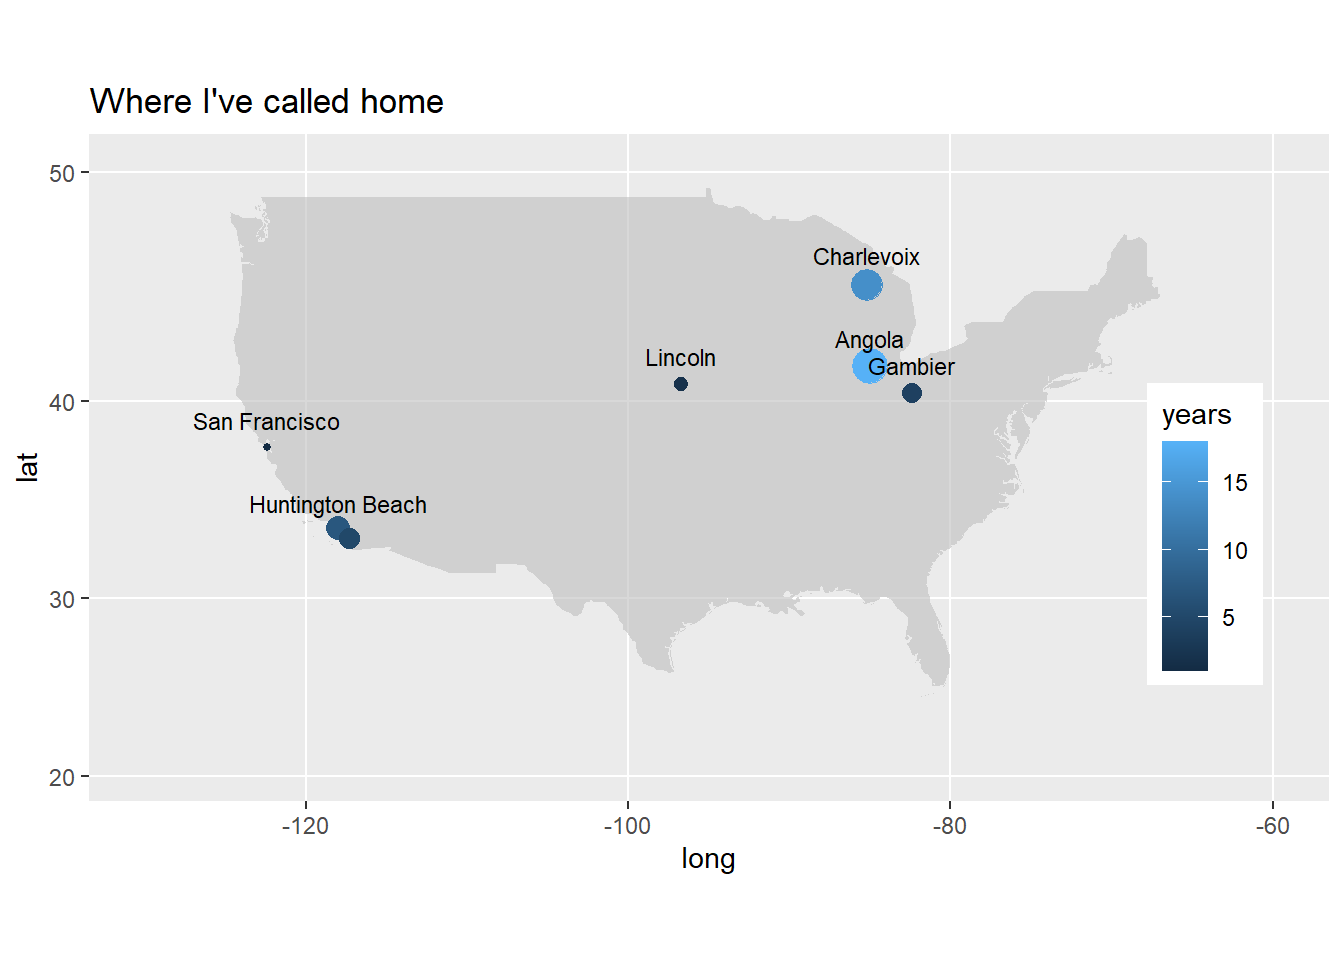
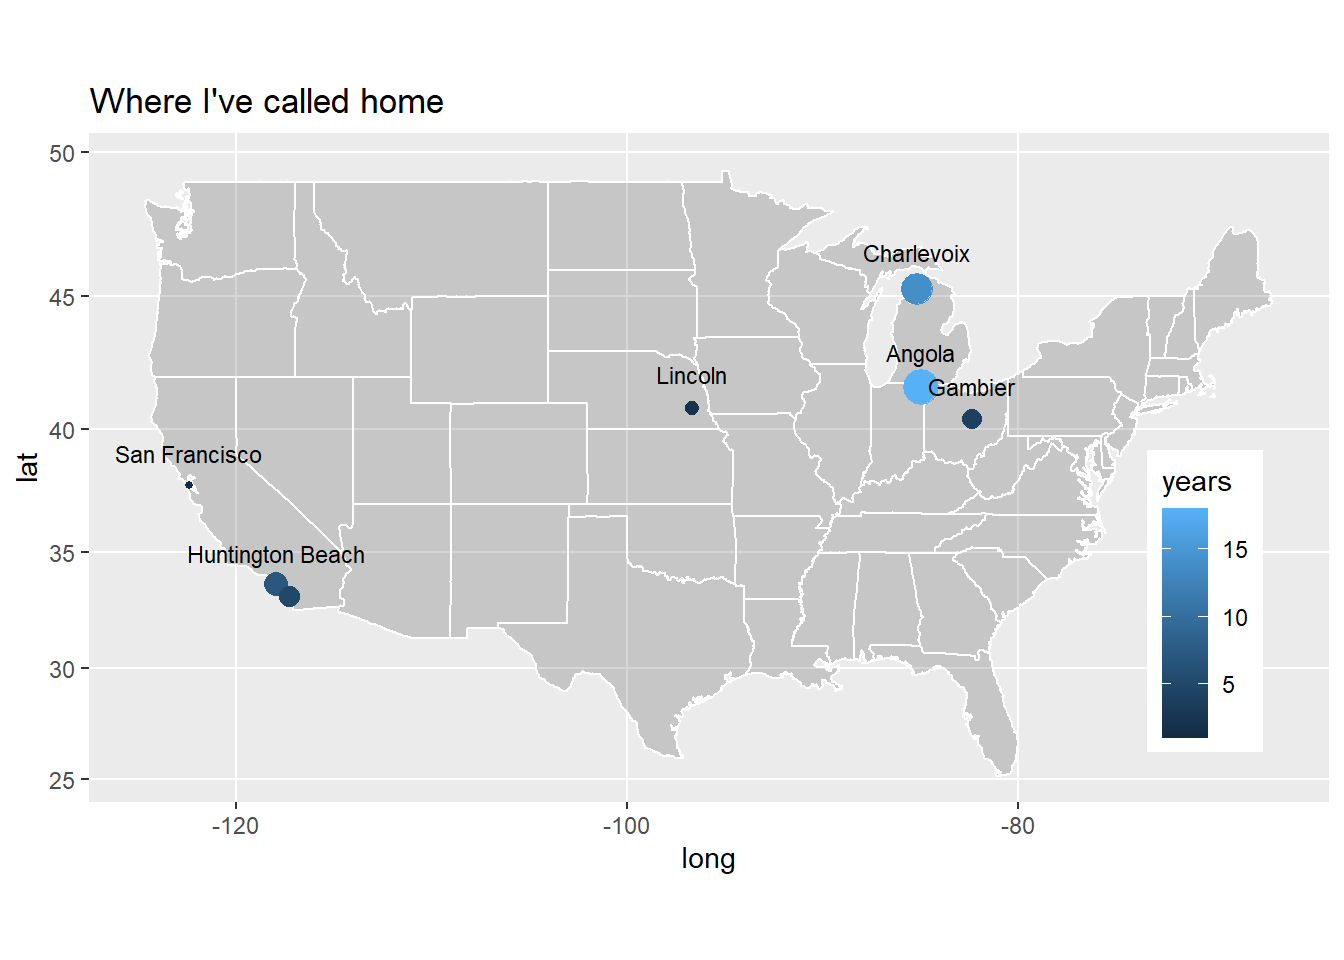
Added state lines to the about plot.  Cleaned up the mapping code a bit.

diff --git a/about.html b/about.html
@@ -325,18 +325,16 @@ df &lt;- read.csv(&#39;https://raw.githubusercontent.com/Landcruiser87/Andy_Hero
 
 colnames(df) &lt;- c(&quot;Place&quot;,&quot;City&quot;,&quot;State&quot;,&quot;Lat&quot;,&quot;Long&quot;,&quot;Year&quot;,&quot;cnt&quot;)
 
-US &lt;- map_data(&quot;world&quot;) %&gt;% filter(region==&quot;USA&quot;)
-
-ggplot() + 
- geom_polygon(data = US, aes(x=long, y = lat, group = group), fill=&quot;grey&quot;, alpha=0.6) +
+states &lt;- map_data(&quot;state&quot;)
+ggplot(data = states) + 
+ geom_polygon(data = states, aes(x=long, y = lat, color=&quot;grey&quot;, group = group), alpha=.2, color=&quot;white&quot;) +
  geom_point(data=df, aes(x=Long, y=Lat, size=cnt, color=cnt)) +
  geom_text(data=df, aes(x=Long, y=Lat,label=City), size=3, nudge_x=0, nudge_y=1.3, check_overlap = T) +
  coord_map() +
- ylim(20,50) +
- xlim(-130,-60) +
+ guides(fill=FALSE) +
  labs(title=&quot;Where I&#39;ve called home&quot;,color=&quot;years&quot;) +
  scale_size_continuous(guide = FALSE) +
- theme(legend.position = c(0.9,0.4))</code></pre>
+ theme(legend.position = c(0.9,0.3))</code></pre>
 <p><img src="about_files/figure-html/PlacesLived-1.png" width="672" /></p>
 <div id="things-that-pique-my-interesttake-up-my-time." class="section level2">
 <h2>Things that pique my interest/take up my time.</h2>
